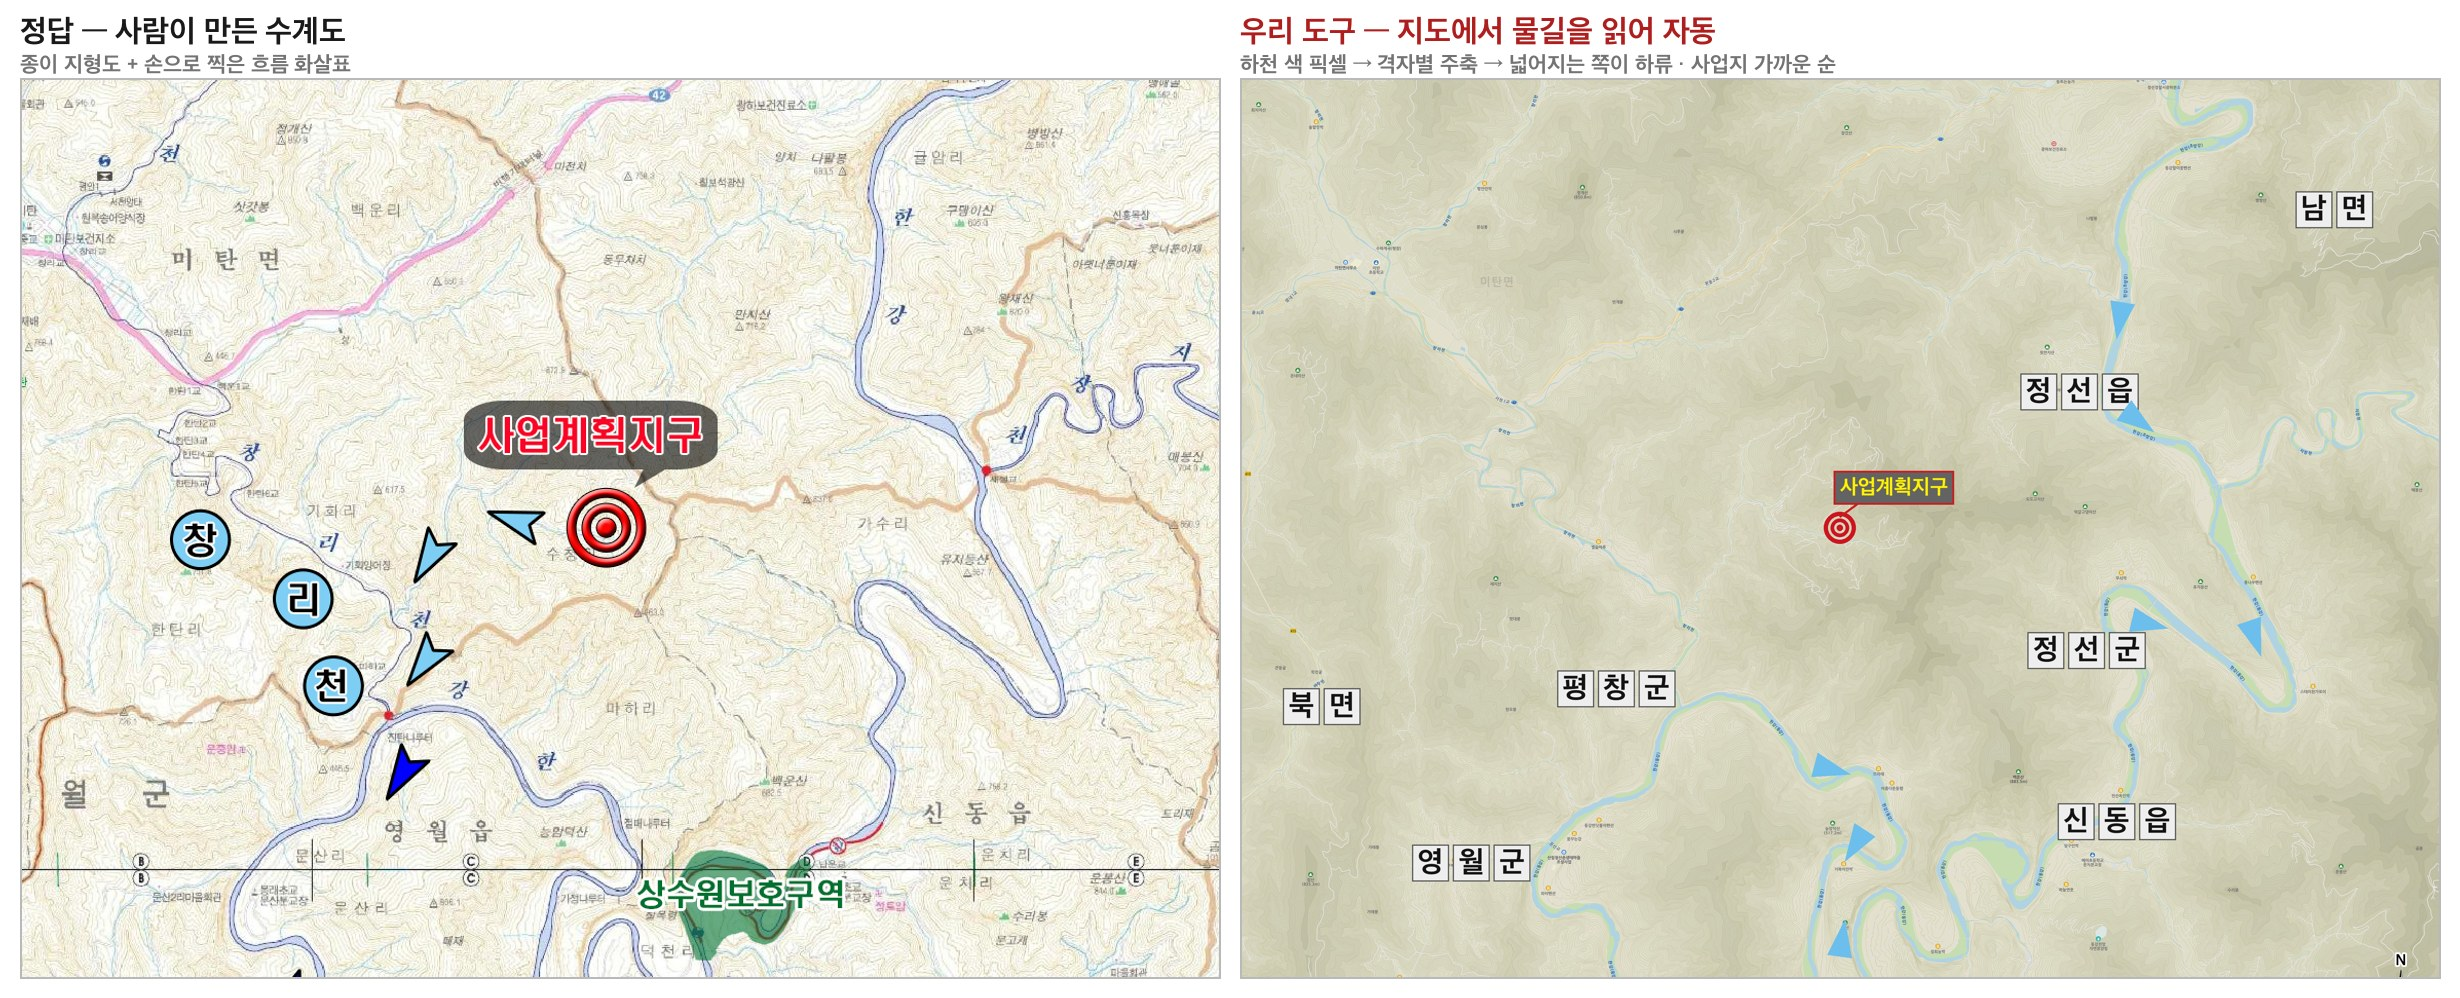
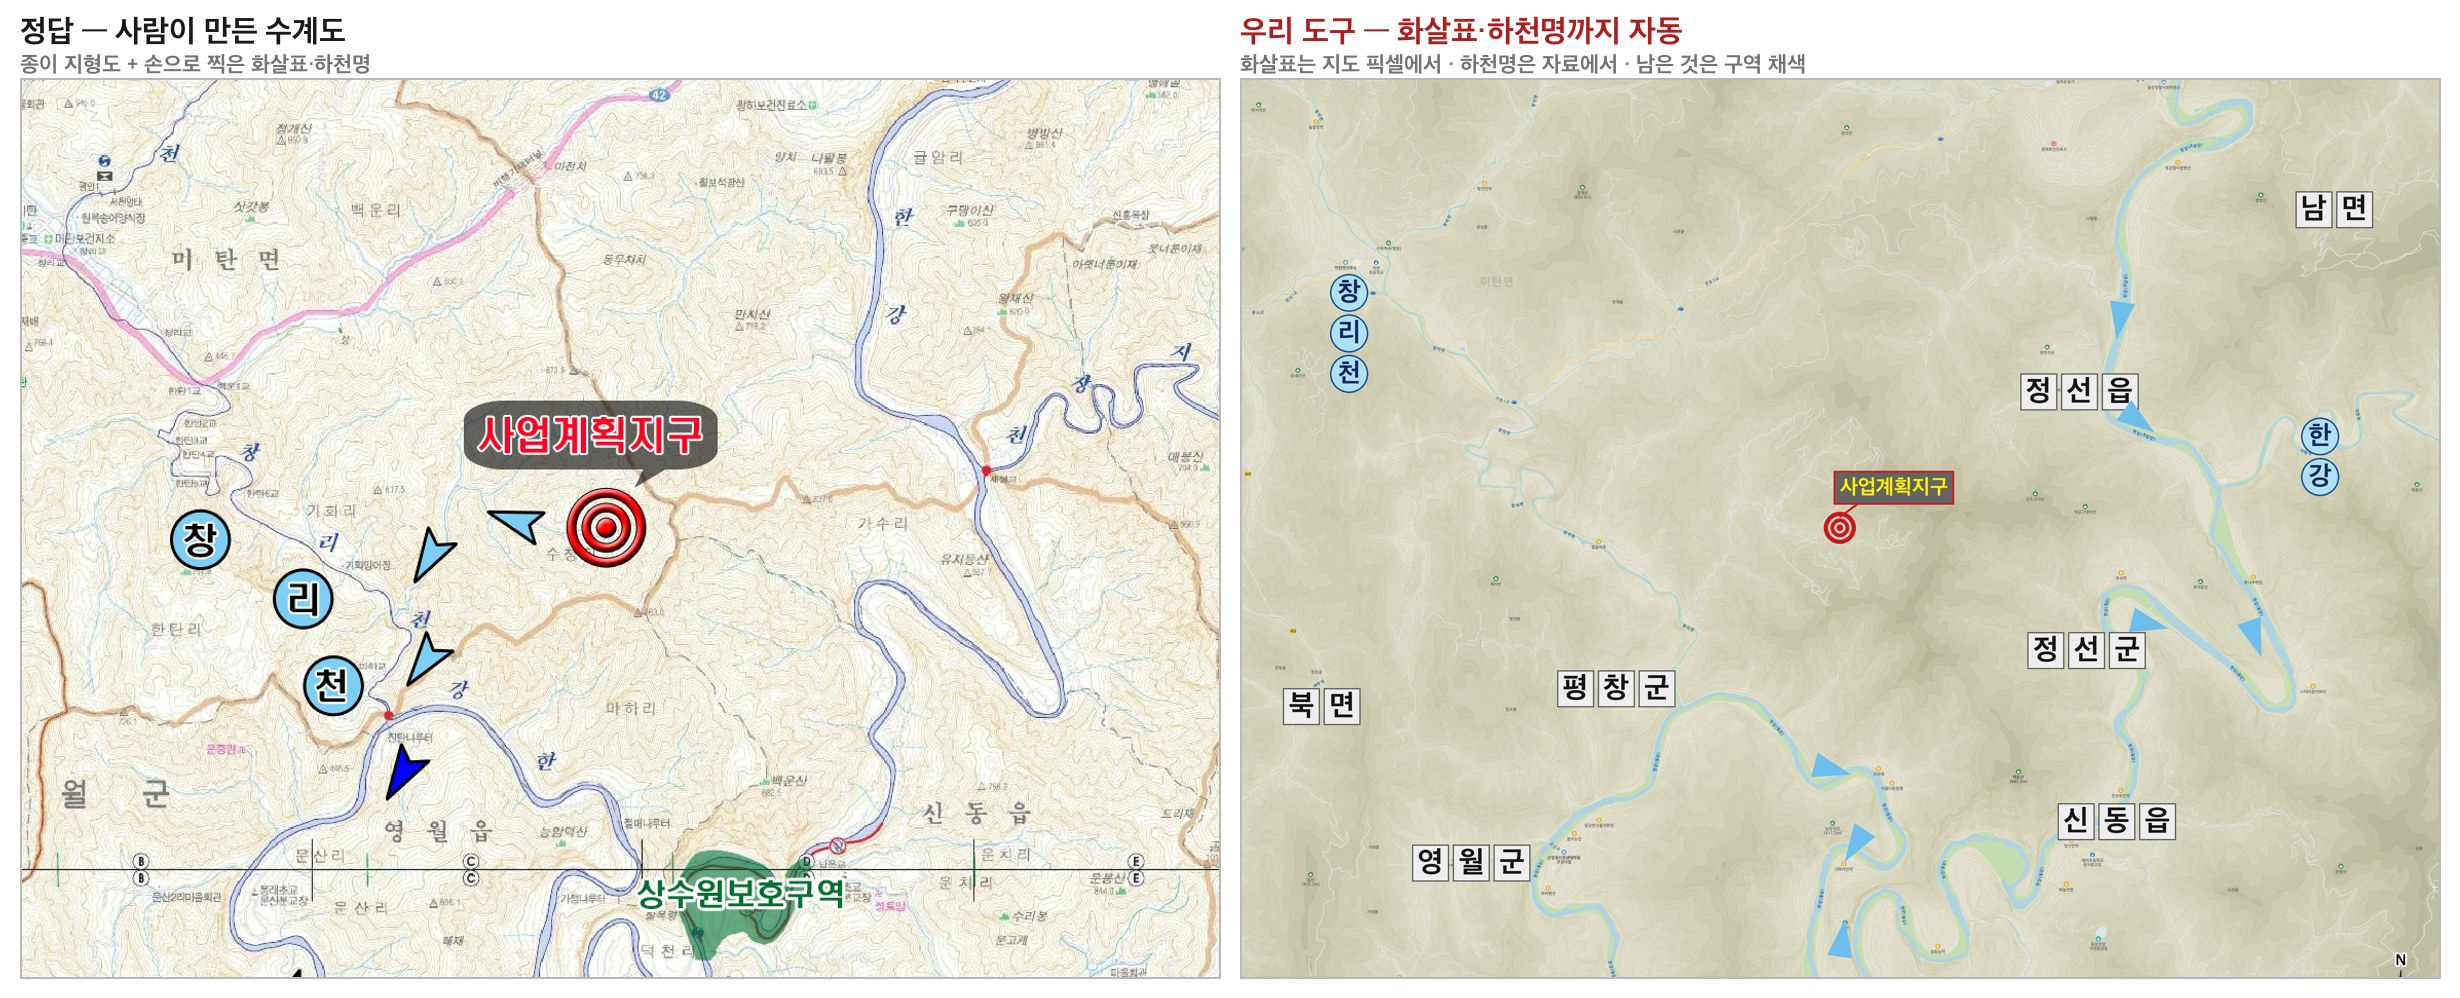
수계도 하천명 라벨 — 이름은 자료에서, 자리는 물길 위에서
하천망 자료는 지오메트리가 면형이라 물길로는 못 쓰지만 **이름은 정확하다.**
면 안의 점을 고르면 그 자리가 곧 물 위라 라벨 자리로 충분하다.
평창에서 정답과 같은 이름이 나왔다 — 창리천 · 한강.

figure_overlay 에 river 요소 — 정답처럼 낱자를 원에 담아 세운다.
행정구역명은 네모 박스라 모양으로 구분된다.

⚠ 라벨끼리 겹치면 **버리지 말고 옮겨야 한다.** 처음엔 겹치면 건너뛰게 했더니
   큰 하천이 좋은 자리를 차지하고 작은 하천이 사라졌다. 이제 물길 위에서 가장
   덜 붐비는 점으로 옮기고, 그래도 붙으면 그때 포기한다.
   축척·방위표 자리와 가장자리(글자가 잘린다)도 피한다.

수계도가 "절반" 에서 "거의" 로 올라갔다. 남은 것은 상수원보호구역 채색 하나다.

diff --git a/engine/hydro.py b/engine/hydro.py
@@ -254,6 +254,60 @@ def arrows_to_elements(cells, length=90, reverse=False):
     return els
 
 
+def river_labels(lon, lat, half_deg, center_px, px_per_m, canvas,
+                 names=None, size=None, gap=260, min_pts=40, avoid=()):
+    """하천명 라벨 — 이름은 **자료에서**, 자리는 **화면 안 물길 위**에서.
+
+    하천망 자료는 지오메트리가 면형이라 물길로는 못 쓰지만 **이름은 정확하다.**
+    면 안의 점을 고르면 그 자리는 물 위이므로 라벨 자리로 충분하다.
+
+    `avoid` 에 이미 놓인 라벨 자리(행정구역명 등)를 주면 그 둘레를 피한다."""
+    import math
+    from pyproj import Transformer
+    import admin as A
+
+    streams, err = fetch_streams(lon, lat, half_deg, names)
+    if err:
+        return [], err
+    tr = Transformer.from_crs("EPSG:4326", "EPSG:3857", always_xy=True)
+    cx_m, cy_m = tr.transform(lon, lat)
+    ox, oy = center_px
+    k = px_per_m / math.cos(math.radians(lat))
+    w, h = canvas
+
+    by = {}
+    for s in streams:
+        if len(s["path"]) < min_pts:
+            continue
+        pts = by.setdefault(s["name"], [])
+        for lo, la in s["path"]:
+            x, y = tr.transform(lo, la)
+            pts.append((ox + (x - cx_m) * k, oy - (y - cy_m) * k))
+
+    els = []
+    for nm, pts in sorted(by.items(), key=lambda kv: -len(kv[1])):
+        at = A._visible_center(pts, w, h)
+        if at is None:
+            continue
+        # 이미 놓인 것(다른 하천명·행정구역명·장식)과 겹치면 **물길 위 다른 점**으로 옮긴다.
+        # 그냥 버리면 큰 하천이 좋은 자리를 차지하고 작은 하천이 사라진다.
+        block = [e["at"] for e in els] + list(avoid)
+        if block and min(math.dist(at, b) for b in block) < gap:
+            mx, my = w * 0.10, h * 0.10          # 가장자리에 붙으면 글자가 잘린다
+            inside = [p for p in pts if mx <= p[0] <= w - mx and my <= p[1] <= h - my]
+            if not inside:
+                continue
+            at = list(max(inside, key=lambda p: min(math.dist(p, b) for b in block)))
+            if min(math.dist(at, b) for b in block) < gap * 0.5:
+                continue                          # 그래도 붙으면 포기한다
+
+        el = {"type": "river", "at": [round(at[0], 1), round(at[1], 1)], "text": nm}
+        if size:
+            el["size"] = size
+        els.append(el)
+    return els, None
+
+
 def main():
     ap = argparse.ArgumentParser(description="하천망 → 수계도 흐름선")
     ap.add_argument("--lonlat", nargs=2, type=float, required=True)

diff --git a/engine/figure_overlay.py b/engine/figure_overlay.py
@@ -233,6 +233,32 @@ def draw_admin(im, at, text, k=1.0, size=None):
         x += box + gap
 
 
+def draw_river(im, at, text, k=1.0, size=None, vertical=True):
+    """하천명 — **낱자를 원 안에** 담아 늘어놓는다.
+
+    정답 수계도가 `창` `리` `천` 을 하늘색 원에 하나씩 넣어 물길을 따라 세운다.
+    행정구역명(네모 박스)과 모양을 달리해 **한눈에 구분되게** 하는 장치다."""
+    d = ImageDraw.Draw(im)
+    px = size or int(46 * k)
+    f = _font(px)
+    r = px * 0.72
+    gap = r * 2 + max(3, px * 0.10)
+    n = len(text)
+    x, y = at
+    if vertical:
+        y -= gap * (n - 1) / 2
+    else:
+        x -= gap * (n - 1) / 2
+    for ch in text:
+        d.ellipse([x - r, y - r, x + r, y + r], fill=(176, 224, 245),
+                  outline=(28, 78, 150), width=max(2, round(px * 0.06)))
+        d.text((x, y), ch, font=f, fill=(20, 40, 90), anchor="mm")
+        if vertical:
+            y += gap
+        else:
+            x += gap
+
+
 def draw_place(d, at, text, k=1.0, font=None):
     """지명 — 흰 테두리를 두른 파란 글자. 지도 위에서 읽히게 하는 표준 처리다."""
     f = font or _font(int(38 * k))
@@ -603,6 +629,10 @@ def render(spec, out_path=None):
         elif t == "admin":
             draw_admin(im, pos(el, "north") if not el.get("at") else el["at"],
                        el["text"], k, el.get("size"))
+            d = ImageDraw.Draw(im)
+        elif t == "river":
+            draw_river(im, el["at"], el["text"], k, el.get("size"),
+                       el.get("vertical", True))
             d = ImageDraw.Draw(im)
         elif t == "place":
             draw_place(d, el["at"], el["text"], k, F(38))

diff --git a/docs/20260819_삽도_자동화.md b/docs/20260819_삽도_자동화.md
@@ -33,7 +33,7 @@
 | 수계흐름모식도 (2.8-3) | **● 근접** | — |
 | 지역개황도 (2.10-1) | ◑ 거의 | **생태·경관보전지역 채색** (자료를 못 찾았다) |
 | **생태·자연도 (2.8-1)** | ◑ 절반 | 지형도 배경 위 반투명 합성 · 군락기호 라벨 · 도엽명 |
-| 수계도·유역도 (2.8-4) | ◑ 절반 | **흐름 화살표는 나온다**(3-4) · 하천명 라벨 · 구역 채색 |
+| 수계도·유역도 (2.8-4) | ◑ 거의 | **화살표·하천명까지 나온다**(3-4) · 남은 것은 상수원보호구역 채색 |
 | 식생보전등급도 (2.8-2) | ✗ 대상 아님 | 동식물상 조사 산출물 |
 | *(6종 밖)* 위성사진 | **● 근접** | — 카카오맵을 국토지리정보원으로 대체 |
 
@@ -403,8 +403,16 @@ cells = flow_arrows(mask, 사업지_px, grid=340)  # 격자별 주축 → 화살
 
 ![수계도 정답 대비](img/20260820_수계도_정답_vs_자동.jpg)
 
-남은 차이는 **하천명 라벨**(정답은 `창·리·천` 을 원형 아이콘에 낱자로)과
-**상수원보호구역 채색**, 그리고 배경이 종이 지형도가 아니라는 것이다.
+**하천명 라벨** — 이름은 **자료에서**, 자리는 **화면 안 물길 위**에서 잡는다.
+하천망 자료는 지오메트리가 면형이라 물길로는 못 쓰지만 **이름은 정확하고**, 면 안의 점을
+고르면 그 자리가 곧 물 위다. 정답처럼 낱자를 원에 담아 세운다 (행정구역명은 네모 박스라
+모양으로 구분된다).
+
+⚠ 라벨끼리 겹치면 **버리지 말고 옮긴다.** 처음에 겹치면 건너뛰게 했더니 큰 하천이 좋은
+   자리를 차지하고 작은 하천이 사라졌다. 이제 물길 위에서 가장 덜 붐비는 점으로 옮기고,
+   그래도 붙으면 그때 포기한다. 축척·방위표 자리도 피한다.
+
+남은 차이는 **상수원보호구역 채색**과 배경이 종이 지형도가 아니라는 것이다.
 
 ### 3-3. ECVAM 국토환경성평가지도 — TMS ✅
 
